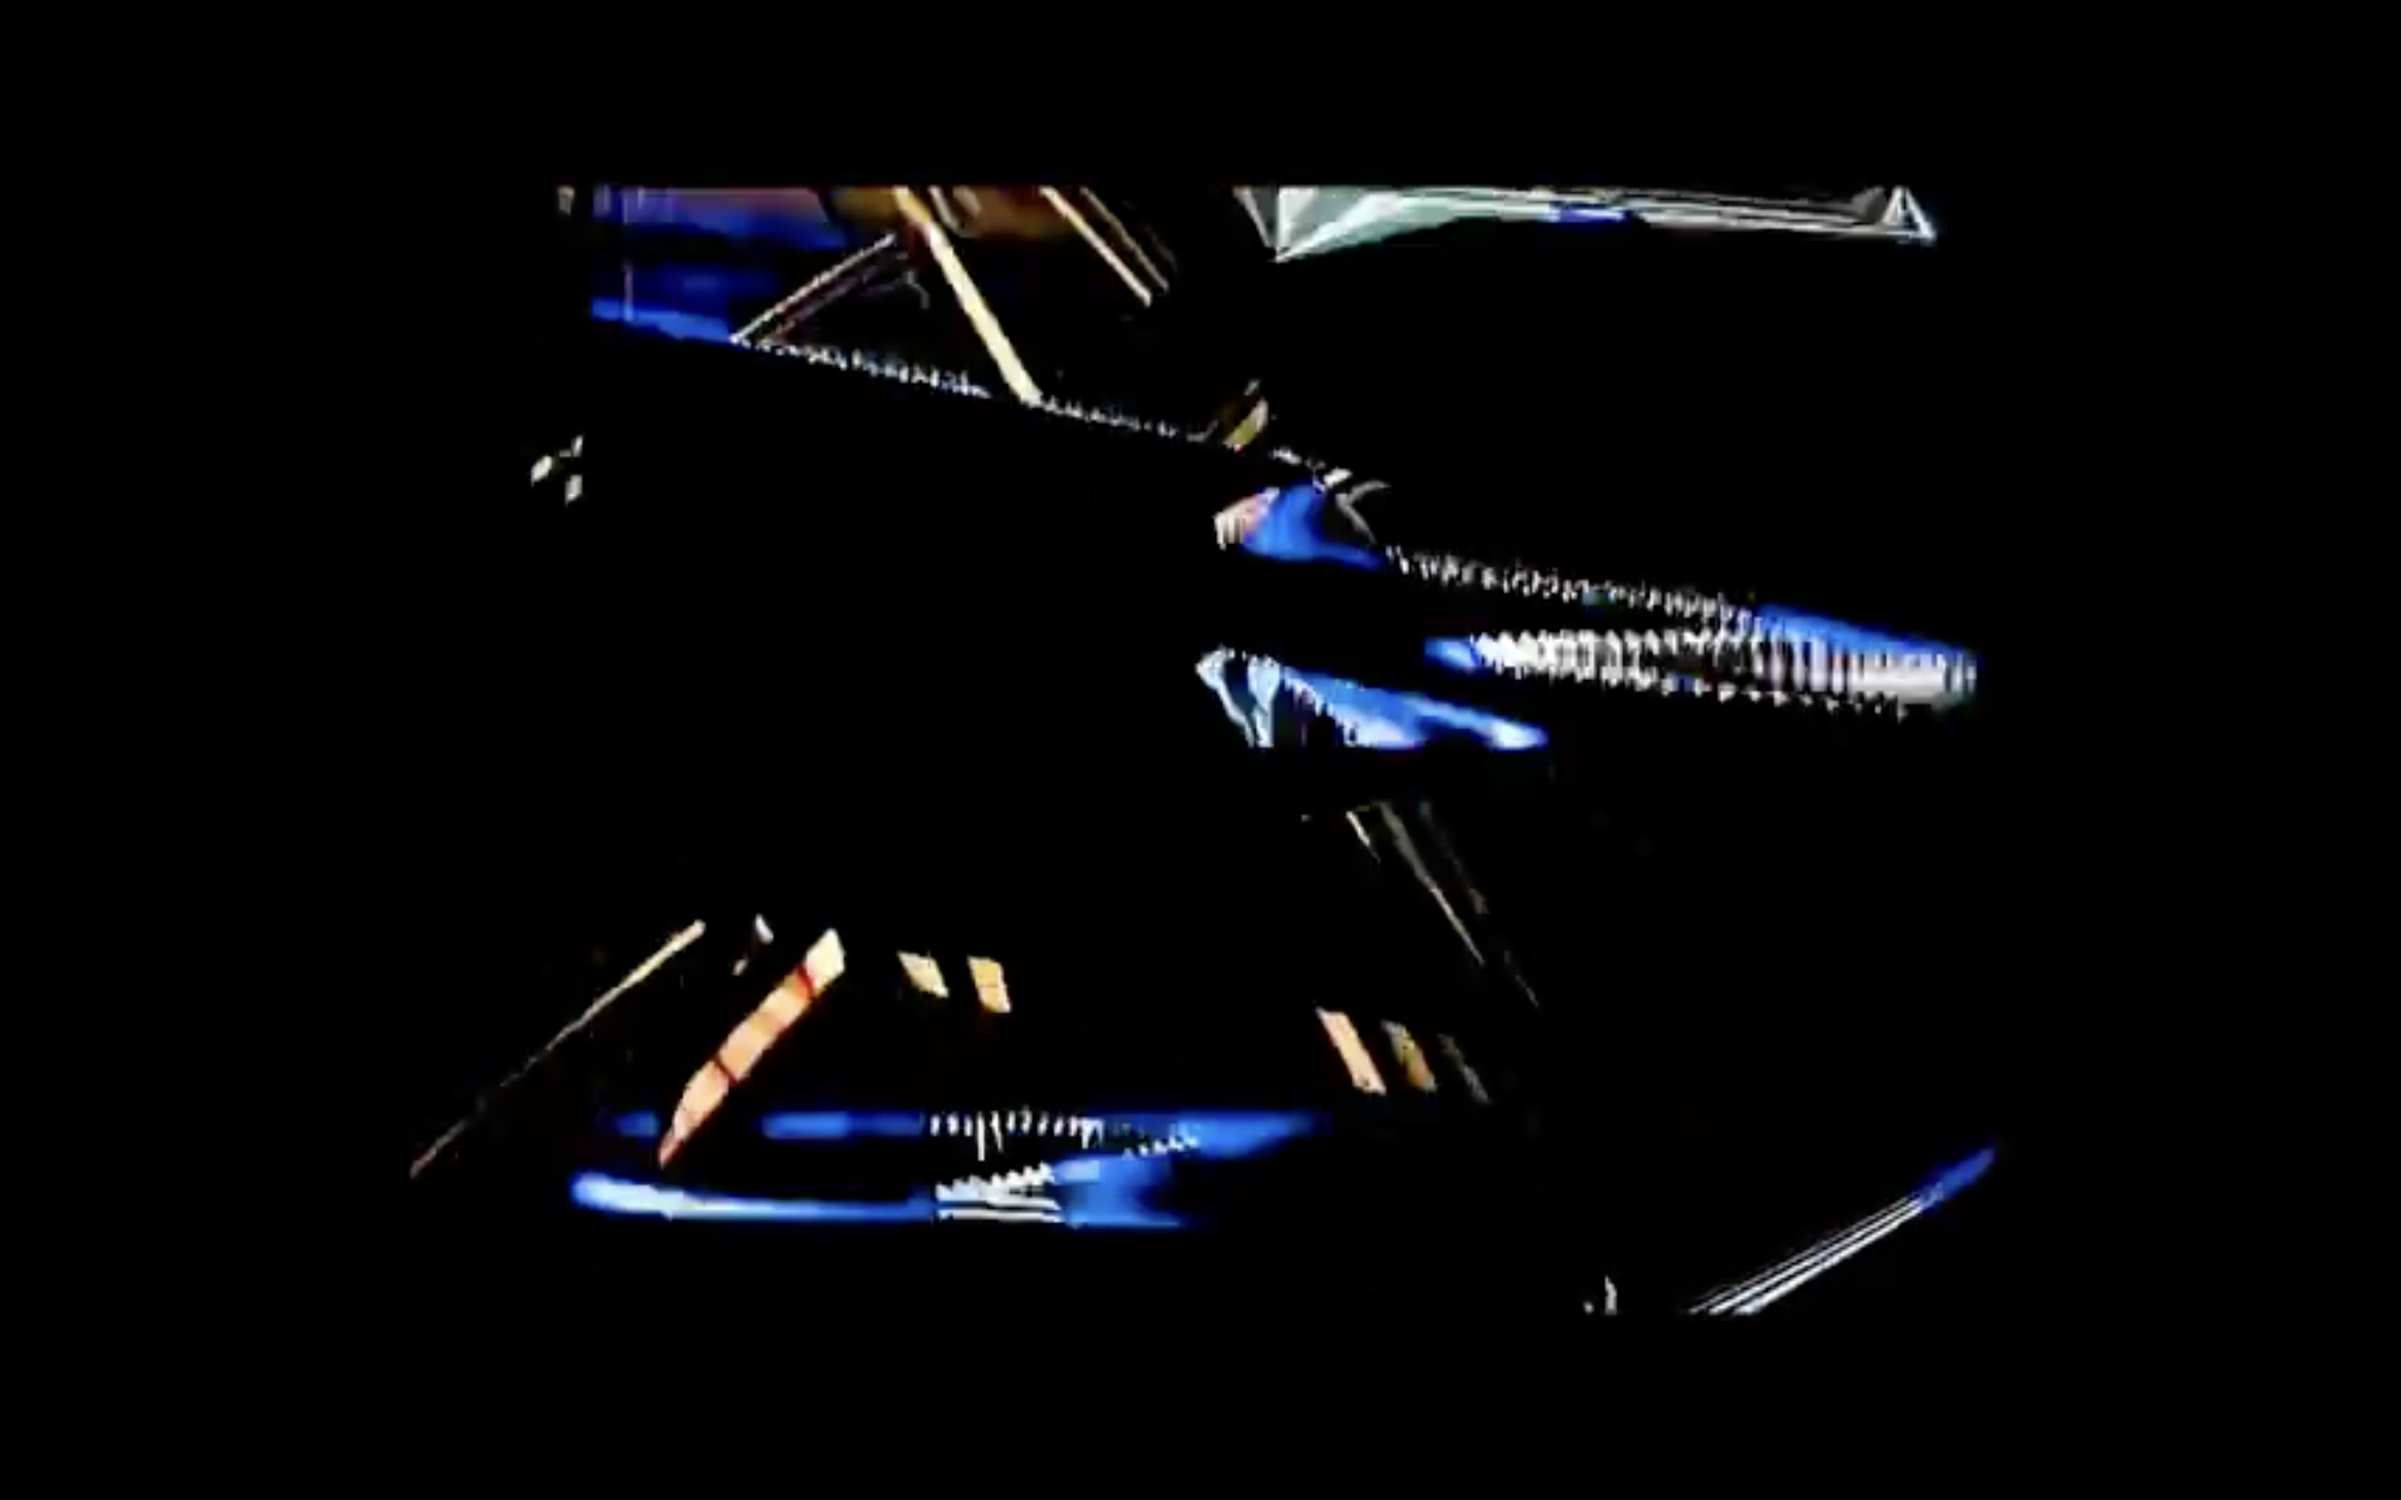
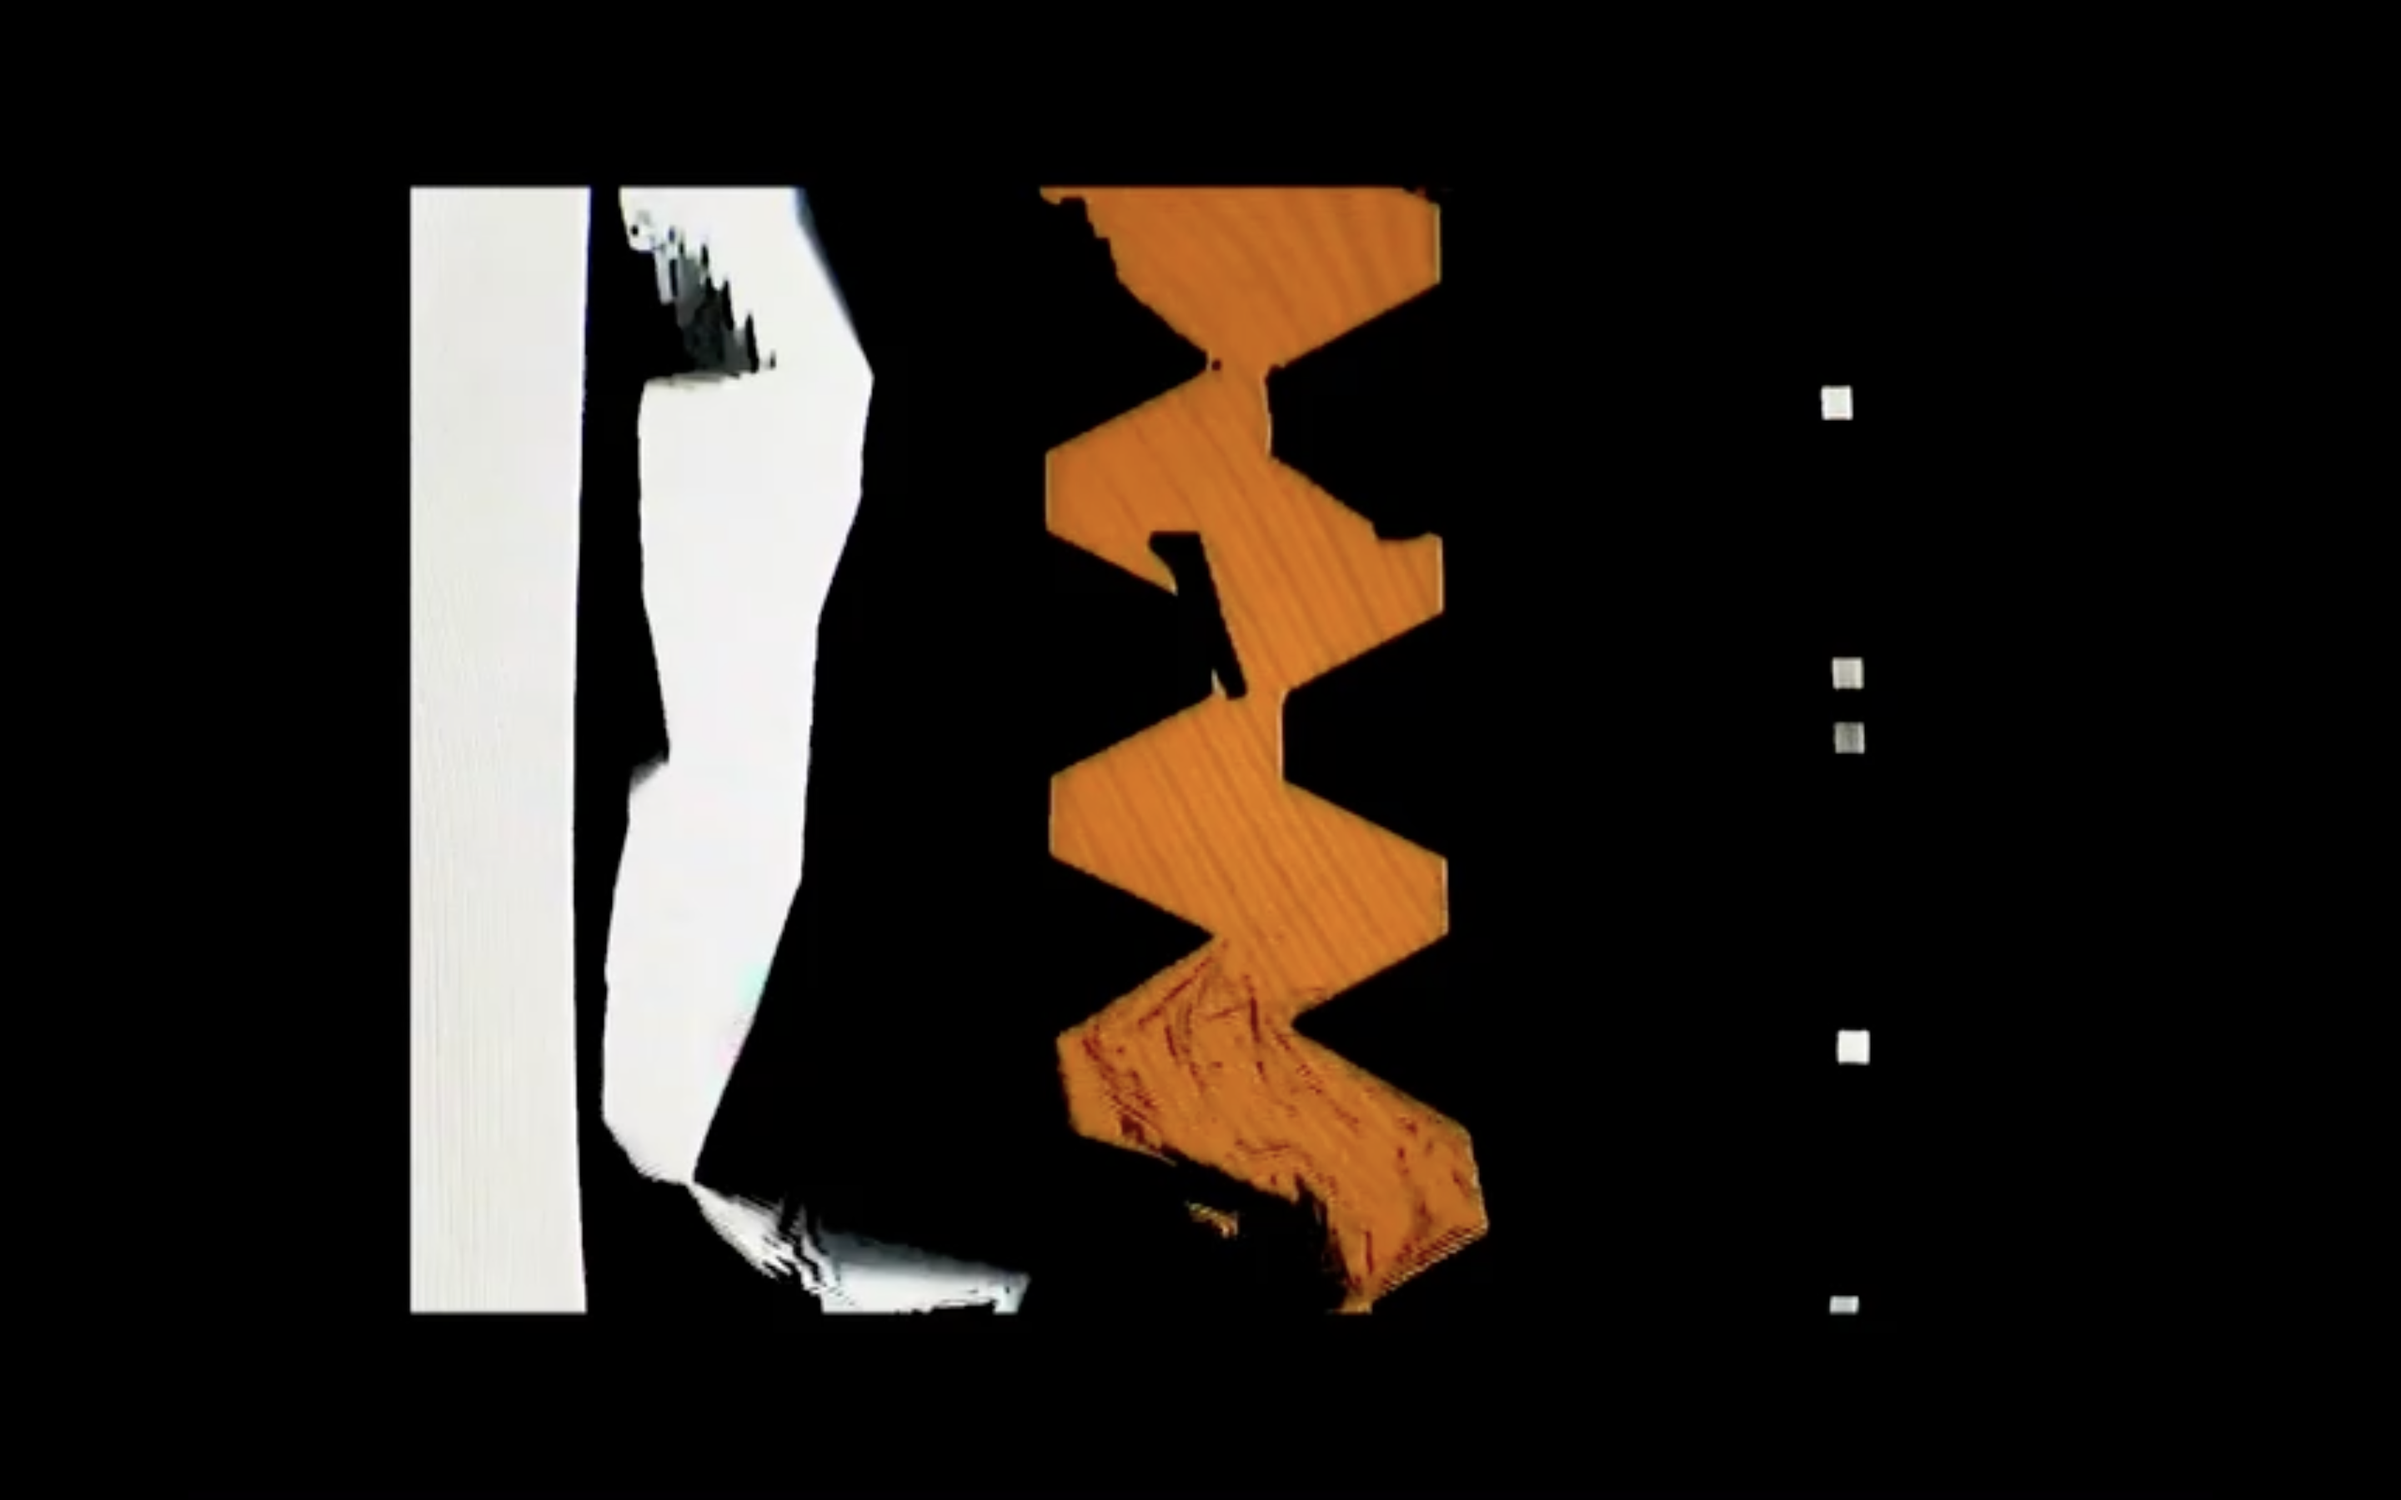
mobile optimization 1.2

diff --git a/src/__tests__/Navigation.test.tsx b/src/__tests__/Navigation.test.tsx
@@ -65,4 +65,45 @@ describe('Navigation', () => {
     render(<Navigation />);
     expect(screen.getByAltText('kwahzee logo').closest('a')).toHaveAttribute('href', '/');
   });
+
+  describe('mobile viewport behavior', () => {
+    afterEach(() => {
+      Object.defineProperty(window, 'innerWidth', { writable: true, configurable: true, value: 1024 });
+    });
+
+    it('hides navigation on /blog at mobile viewport width', () => {
+      Object.defineProperty(window, 'innerWidth', { writable: true, configurable: true, value: 400 });
+      mockUsePathname.mockReturnValue('/blog');
+      const { container } = render(<Navigation />);
+      expect(container.firstChild).toBeNull();
+    });
+
+    it('shows navigation on /blog at desktop viewport width', () => {
+      Object.defineProperty(window, 'innerWidth', { writable: true, configurable: true, value: 1200 });
+      mockUsePathname.mockReturnValue('/blog');
+      render(<Navigation />);
+      expect(screen.getByText('Projects')).toBeInTheDocument();
+    });
+
+    it('shows navigation on / at mobile viewport width', () => {
+      Object.defineProperty(window, 'innerWidth', { writable: true, configurable: true, value: 400 });
+      mockUsePathname.mockReturnValue('/');
+      render(<Navigation />);
+      expect(screen.getByText('Projects')).toBeInTheDocument();
+    });
+
+    it('treats viewport width of exactly 767px as mobile (hides on /blog)', () => {
+      Object.defineProperty(window, 'innerWidth', { writable: true, configurable: true, value: 767 });
+      mockUsePathname.mockReturnValue('/blog');
+      const { container } = render(<Navigation />);
+      expect(container.firstChild).toBeNull();
+    });
+
+    it('treats viewport width of 768px as desktop (shows on /blog)', () => {
+      Object.defineProperty(window, 'innerWidth', { writable: true, configurable: true, value: 768 });
+      mockUsePathname.mockReturnValue('/blog');
+      render(<Navigation />);
+      expect(screen.getByText('Projects')).toBeInTheDocument();
+    });
+  });
 });

diff --git a/src/__tests__/Blog.test.tsx b/src/__tests__/Blog.test.tsx
@@ -1,0 +1,53 @@
+import { render, screen } from '@testing-library/react';
+import Blog from '@/app/blog/page';
+
+jest.mock('next/link', () => ({
+  __esModule: true,
+  default: ({ children, href, ...props }: { children: React.ReactNode; href: string; [key: string]: unknown }) => (
+    <a href={href} {...props}>{children}</a>
+  ),
+}));
+
+describe('Blog page', () => {
+  it('renders two "go home" links', () => {
+    render(<Blog />);
+    const links = screen.getAllByText('go home');
+    expect(links).toHaveLength(2);
+  });
+
+  it('both "go home" links point to the home page', () => {
+    render(<Blog />);
+    screen.getAllByText('go home').forEach(link => {
+      expect(link.closest('a')).toHaveAttribute('href', '/');
+    });
+  });
+
+  it('does not render an h1 or header element', () => {
+    const { container } = render(<Blog />);
+    expect(container.querySelector('h1')).toBeNull();
+    expect(container.querySelector('header')).toBeNull();
+  });
+
+  it('renders at least one blog post article', () => {
+    render(<Blog />);
+    const articles = document.querySelectorAll('article');
+    expect(articles.length).toBeGreaterThan(0);
+  });
+
+  it('renders post titles as h2 elements', () => {
+    render(<Blog />);
+    const headings = document.querySelectorAll('h2');
+    expect(headings.length).toBeGreaterThan(0);
+  });
+
+  it('renders post dates as time elements', () => {
+    render(<Blog />);
+    const times = document.querySelectorAll('time');
+    expect(times.length).toBeGreaterThan(0);
+  });
+
+  it('renders the post titled "new website"', () => {
+    render(<Blog />);
+    expect(screen.getByText('new website')).toBeInTheDocument();
+  });
+});

diff --git a/src/__tests__/PageBackground.test.tsx b/src/__tests__/PageBackground.test.tsx
@@ -74,16 +74,16 @@ describe('PageBackground', () => {
       const el = await PageBackground({ videoSrc: '/videos/test.mp4' });
       const { container } = render(el);
       const src = container.querySelector('img')?.getAttribute('src') ?? '';
-      expect(src).toMatch(/^\/images\/m(1[0-2]|[1-9])\.png$/);
+      expect(src).toMatch(/^\/images\/m[1-9]\.png$/);
     });
 
-    it('selects image m7 when Math.random returns 0.5', async () => {
+    it('selects image m5 when Math.random returns 0.5', async () => {
       jest.spyOn(Math, 'random').mockReturnValue(0.5);
       mockHeaders.mockResolvedValue(makeHeaders('mobile'));
       const el = await PageBackground({ videoSrc: '/videos/test.mp4' });
       const { container } = render(el);
-      // Math.floor(0.5 * 12) + 1 = 7
-      expect(container.querySelector('img')).toHaveAttribute('src', '/images/m7.png');
+      // Math.floor(0.5 * 9) + 1 = 5
+      expect(container.querySelector('img')).toHaveAttribute('src', '/images/m5.png');
     });
   });
 
@@ -108,7 +108,7 @@ describe('PageBackground', () => {
       const el = await PageBackground({ videoSrc: '/videos/test.mp4' });
       const { container } = render(el);
       const src = container.querySelector('img')?.getAttribute('src') ?? '';
-      expect(src).toMatch(/^\/images\/m(1[0-2]|[1-9])\.png$/);
+      expect(src).toMatch(/^\/images\/m[1-9]\.png$/);
     });
   });
 });

diff --git a/src/__tests__/Audio.test.tsx b/src/__tests__/Audio.test.tsx
@@ -66,4 +66,26 @@ describe('Audio page', () => {
     expect((video as HTMLVideoElement).muted).toBe(true);
     expect(video).toHaveAttribute('loop');
   });
+
+  it('album links are arranged in a flex column container', () => {
+    render(<Audio />);
+    const links = screen.getAllByRole('link');
+    const column = links[0].parentElement;
+    expect(column).toHaveStyle({ flexDirection: 'column' });
+  });
+
+  it('each album link uses a square 1:1 aspect ratio', () => {
+    render(<Audio />);
+    const links = screen.getAllByRole('link');
+    links.forEach(link => {
+      expect(link).toHaveStyle({ aspectRatio: '1 / 1' });
+    });
+  });
+
+  it('column container has a max-width for readable layout', () => {
+    render(<Audio />);
+    const links = screen.getAllByRole('link');
+    const column = links[0].parentElement;
+    expect(column).toHaveStyle({ maxWidth: '420px' });
+  });
 });

diff --git a/src/components/Navigation.tsx b/src/components/Navigation.tsx
@@ -3,14 +3,22 @@
 import Link from 'next/link';
 import Image from 'next/image';
 import { usePathname } from 'next/navigation';
+import { useState, useEffect } from 'react';
 
 export default function Navigation() {
   const pathname = usePathname();
   const isProjectPage = pathname.startsWith('/projects/') && pathname !== '/projects';
+  const [isMobile, setIsMobile] = useState(false);
 
-  if (isProjectPage) {
-    return null;
-  }
+  useEffect(() => {
+    const check = () => setIsMobile(window.innerWidth < 768);
+    check();
+    window.addEventListener('resize', check);
+    return () => window.removeEventListener('resize', check);
+  }, []);
+
+  if (isProjectPage) return null;
+  if (pathname === '/blog' && isMobile) return null;
 
   return (
     <>

diff --git a/src/__tests__/IDMGenerator.test.tsx b/src/__tests__/IDMGenerator.test.tsx
@@ -63,4 +63,14 @@ describe('IDM Name Generator', () => {
     const backLink = screen.getByText(/back/i).closest('a');
     expect(backLink).toHaveAttribute('href', '/projects');
   });
+
+  it('renders the logo image', () => {
+    render(<IDMGenerator />);
+    expect(screen.getByAltText('cat')).toBeInTheDocument();
+  });
+
+  it('title element is present in the DOM (CSS hides it on mobile)', () => {
+    render(<IDMGenerator />);
+    expect(document.querySelector('.title')).toBeInTheDocument();
+  });
 });

diff --git a/src/__tests__/ObliqueStrategies.test.tsx b/src/__tests__/ObliqueStrategies.test.tsx
@@ -64,4 +64,10 @@ describe('Oblique Strategies', () => {
     const backLink = screen.getByText(/back/i).closest('a');
     expect(backLink).toHaveAttribute('href', '/projects');
   });
+
+  it('back link has home-btn class for mobile bottom positioning', () => {
+    render(<ObliqueStrategies />);
+    const backLink = screen.getByText(/back/i).closest('a');
+    expect(backLink).toHaveClass('home-btn');
+  });
 });

diff --git a/src/__tests__/Projects.test.tsx b/src/__tests__/Projects.test.tsx
@@ -50,4 +50,9 @@ describe('Projects page', () => {
     expect((video as HTMLVideoElement).muted).toBe(true);
     expect(video).toHaveAttribute('loop');
   });
+
+  it('links container has the projects-links class for responsive positioning', () => {
+    render(<Projects />);
+    expect(document.querySelector('.projects-links')).toBeInTheDocument();
+  });
 });

diff --git a/src/app/projects/oblique-strategies/styles.css b/src/app/projects/oblique-strategies/styles.css
@@ -87,3 +87,14 @@ video {
     letter-spacing: 2px;
     z-index: 1000;
 }
+
+@media (max-width: 767px) {
+    video {
+        height: 100dvh;
+        min-height: -webkit-fill-available;
+    }
+
+    .home-btn {
+        bottom: 80px;
+    }
+}

diff --git a/src/components/PageBackground.tsx b/src/components/PageBackground.tsx
@@ -1,7 +1,7 @@
 import { headers } from 'next/headers';
 import Image from 'next/image';
 
-const TOTAL_IMAGES = 12;
+const TOTAL_IMAGES = 9;
 
 interface PageBackgroundProps {
   videoSrc: string;
